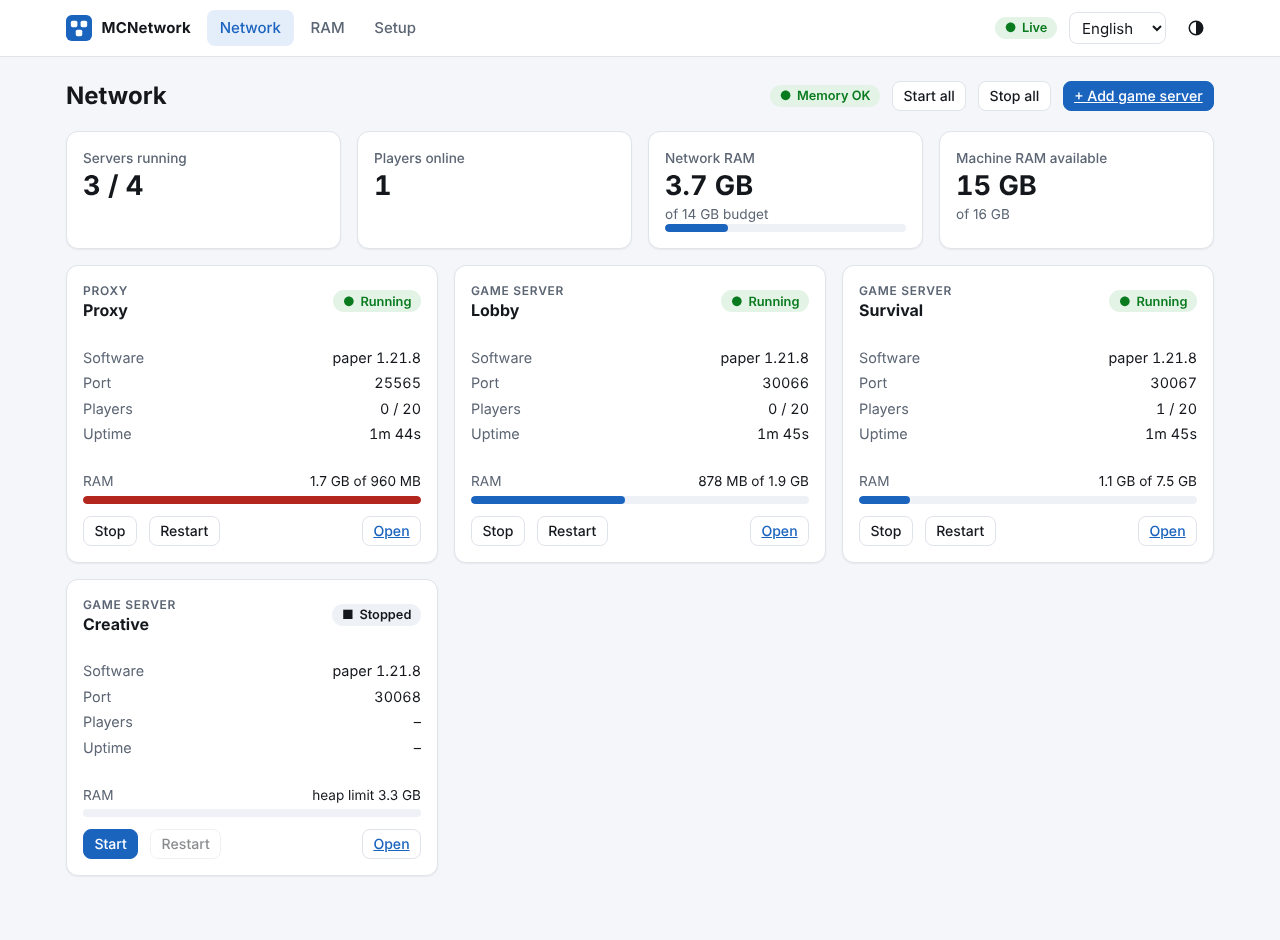
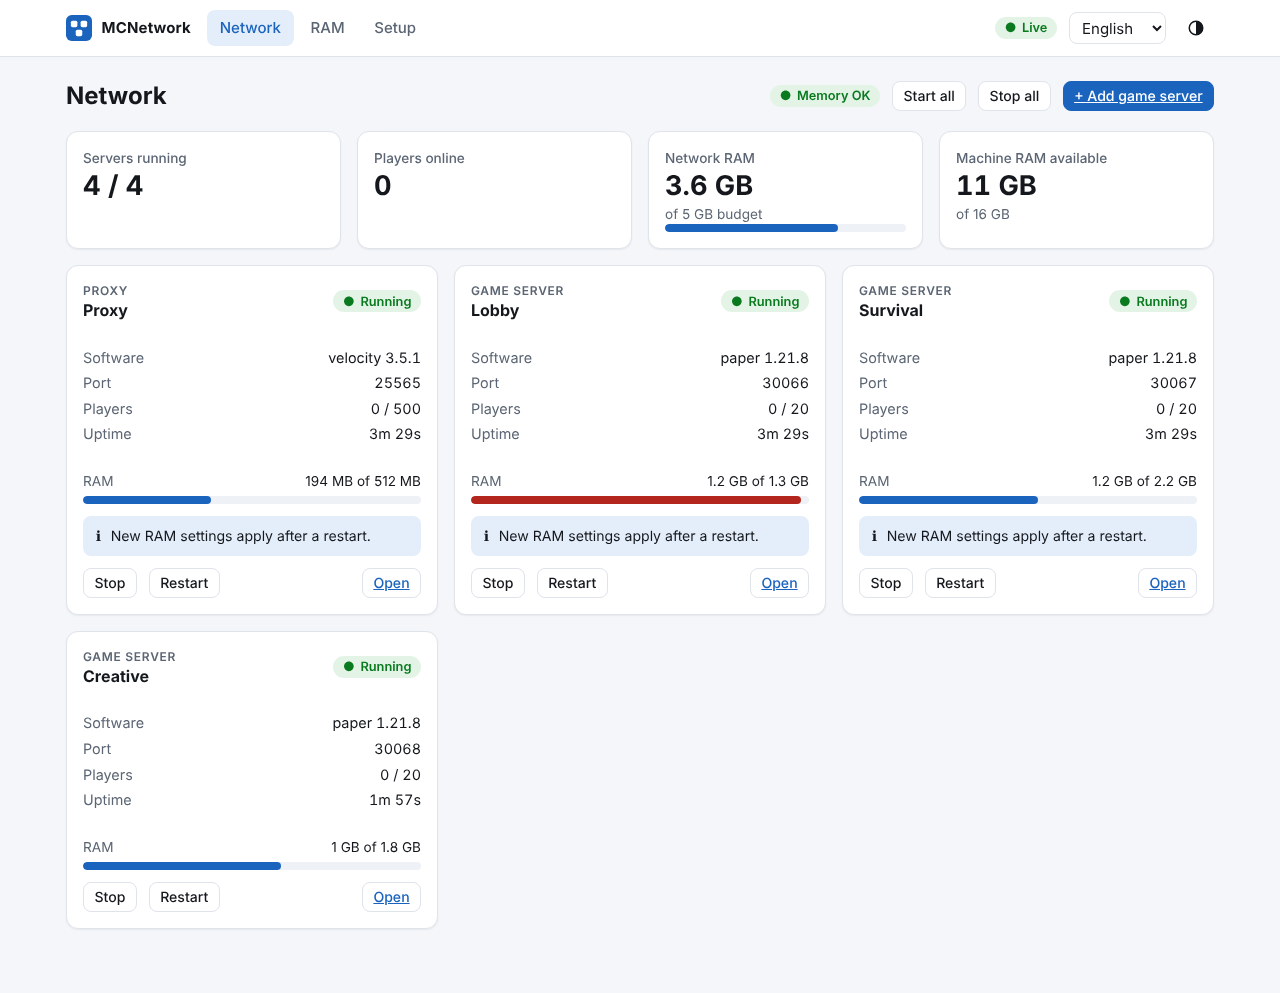
fix: chart gaps, role-aware JVM overhead in the RAM plan; docs for the real-server test
- areas are not drawn across periods without measurements
- plan counts 512 MB overhead for game servers and 256 MB for the proxy (measured), proxy minimum heap 512 MB
- docs/E2E.md, screenshots from a real network

diff --git a/src/ram/planner.ts b/src/ram/planner.ts
@@ -36,22 +36,24 @@ export interface Plan {
 }
 
 export const STEP_MB = 64;
-const OVERHEAD_FIXED_MB = 256;
+/** What a JVM needs besides its heap (metaspace, JIT, threads, native buffers). Measured: Velocity ~200 MB, Paper ~500 MB or more. */
+const OVERHEAD_FIXED_MB: Record<Role, number> = { proxy: 256, backend: 512 };
 const OVERHEAD_RATIO = 0.15;
 
-/** A proxy only forwards packets: it rarely needs more than 1 GB, however big the machine is. */
+/** A proxy only forwards packets: 512 MB-1 GB is plenty (a real Velocity idled at ~200 MB RSS), however big the machine is. */
 const DEFAULTS: Record<Role, { weight: number; minMb: number; maxMb: number }> = {
-  proxy: { weight: 1, minMb: 256, maxMb: 1024 },
+  proxy: { weight: 1, minMb: 512, maxMb: 1024 },
   backend: { weight: 4, minMb: 512, maxMb: Infinity },
 };
 
-/** RAM a JVM occupies for a heap: the heap plus metaspace, threads and native buffers. */
-export const rssForHeap = (heapMb: number): number => heapMb + Math.max(OVERHEAD_FIXED_MB, heapMb * OVERHEAD_RATIO);
+/** RAM a JVM occupies for a heap: the heap plus its own overhead. */
+export const rssForHeap = (heapMb: number, role: Role = 'backend'): number => heapMb + Math.max(OVERHEAD_FIXED_MB[role], heapMb * OVERHEAD_RATIO);
 
 /** Inverse of rssForHeap. */
-export function heapForRss(rssMb: number): number {
-  const small = rssMb - OVERHEAD_FIXED_MB;
-  return small <= OVERHEAD_FIXED_MB / OVERHEAD_RATIO ? small : rssMb / (1 + OVERHEAD_RATIO);
+export function heapForRss(rssMb: number, role: Role = 'backend'): number {
+  const fixed = OVERHEAD_FIXED_MB[role];
+  const small = rssMb - fixed;
+  return small <= fixed / OVERHEAD_RATIO ? small : rssMb / (1 + OVERHEAD_RATIO);
 }
 
 export const autoReserveMb = (totalMb: number): number => Math.max(1024, Math.round(totalMb * 0.12));
@@ -84,9 +86,9 @@ export function planRam(input: PlanInput): Plan {
     const def = DEFAULTS[server.role];
     const minHeap = Math.max(m.minMb ?? def.minMb, 64);
     const pinned = m.pinnedMb;
-    const minRss = rssForHeap(pinned ?? minHeap);
+    const minRss = rssForHeap(pinned ?? minHeap, server.role);
     const maxHeap = m.maxMb ?? def.maxMb;
-    const maxRss = pinned !== undefined ? minRss : Number.isFinite(maxHeap) ? Math.max(minRss, rssForHeap(maxHeap)) : Infinity;
+    const maxRss = pinned !== undefined ? minRss : Number.isFinite(maxHeap) ? Math.max(minRss, rssForHeap(maxHeap, server.role)) : Infinity;
     return { server, weight: m.weight ?? def.weight, minRss, maxRss, rss: minRss, reason: pinned !== undefined ? 'pinned' : 'share', locked: pinned !== undefined };
   });
 
@@ -133,10 +135,10 @@ export function planRam(input: PlanInput): Plan {
     if (s.reason === 'pinned') xmx = m.pinnedMb ?? minHeap;
     else if (s.reason === 'min') xmx = minHeap;
     else if (s.reason === 'max') xmx = Math.max(m.maxMb ?? DEFAULTS[s.server.role].maxMb, minHeap);
-    else xmx = Math.min(Math.max(floorStep(heapForRss(s.rss)), minHeap), m.maxMb ?? DEFAULTS[s.server.role].maxMb);
+    else xmx = Math.min(Math.max(floorStep(heapForRss(s.rss, s.server.role)), minHeap), m.maxMb ?? DEFAULTS[s.server.role].maxMb);
     // Proxies and pinned servers start with their full heap; game servers start smaller and grow.
     const xms = s.server.role === 'proxy' || s.reason === 'pinned' ? xmx : Math.min(xmx, Math.max(256, floorStep(xmx / 4)));
-    return { id: s.server.id, xmxMb: xmx, xmsMb: xms, expectedRssMb: Math.round(rssForHeap(xmx)), reason: s.reason };
+    return { id: s.server.id, xmxMb: xmx, xmsMb: xms, expectedRssMb: Math.round(rssForHeap(xmx, s.server.role)), reason: s.reason };
   });
   const expectedRssMb = allocations.reduce((sum, a) => sum + a.expectedRssMb, 0);
   if (expectedRssMb > budgetMb + 1 && !warnings.length) warnings.push(`The plan needs ${expectedRssMb} MB but only ${Math.round(budgetMb)} MB are available.`);

diff --git a/web/js/charts.js b/web/js/charts.js
@@ -44,13 +44,25 @@ export function stackedAreaChart({ frames, series, budgetMb }) {
     root.append(svg('text', { x: x(time), y: H - 8, 'text-anchor': i === 0 ? 'start' : i === 4 ? 'end' : 'middle' }, fmtTime(time, t1 - t0 < 20 * 60_000)));
   }
 
+  // Without data (the daemon was off) the chart stays empty instead of sloping to zero: frames far apart start a new segment.
+  const gaps = frames.slice(1).map((f, i) => f.t - frames[i].t).sort((a, b) => a - b);
+  const gapMs = Math.max(30_000, 4 * (gaps[Math.floor(gaps.length / 2)] ?? 0));
+  const segments = [];
+  frames.forEach((f, i) => {
+    if (i === 0 || f.t - frames[i - 1].t > gapMs) segments.push([]);
+    segments[segments.length - 1].push(i);
+  });
+
   // stacked areas, bottom series first; a thin surface-colored outline leaves a gap between fills
   const base = frames.map(() => 0);
   series.forEach((s, si) => {
     const top = frames.map((f, i) => base[i] + values[i][si]);
-    const up = frames.map((f, i) => `${x(f.t).toFixed(1)},${y(top[i]).toFixed(1)}`);
-    const down = frames.map((f, i) => `${x(f.t).toFixed(1)},${y(base[i]).toFixed(1)}`).reverse();
-    root.append(svg('path', { class: 'area', d: `M${up.join('L')}L${down.join('L')}Z`, fill: s.color, 'fill-opacity': 0.88 }));
+    for (const seg of segments) {
+      if (seg.length < 2) continue;
+      const up = seg.map((i) => `${x(frames[i].t).toFixed(1)},${y(top[i]).toFixed(1)}`);
+      const down = seg.map((i) => `${x(frames[i].t).toFixed(1)},${y(base[i]).toFixed(1)}`).reverse();
+      root.append(svg('path', { class: 'area', d: `M${up.join('L')}L${down.join('L')}Z`, fill: s.color, 'fill-opacity': 0.88 }));
+    }
     top.forEach((v, i) => (base[i] = v));
   });
 
@@ -72,6 +84,7 @@ export function stackedAreaChart({ frames, series, budgetMb }) {
     let best = 0;
     for (let i = 1; i < frames.length; i++) if (Math.abs(frames[i].t - time) < Math.abs(frames[best].t - time)) best = i;
     const f = frames[best];
+    if (Math.abs(f.t - time) > gapMs / 2) return hide(); // in a gap there is nothing to show
     cross.setAttribute('x1', x(f.t));
     cross.setAttribute('x2', x(f.t));
     cross.style.display = '';

diff --git a/test/planner.test.ts b/test/planner.test.ts
@@ -13,13 +13,17 @@ const get = (plan: Plan, id: string) => {
 };
 
 describe('rssForHeap / heapForRss', () => {
-  it('adds a fixed overhead for small heaps and a percentage for big ones', () => {
-    assert.equal(rssForHeap(512), 768);
-    assert.equal(rssForHeap(4000), 4600);
+  it('adds a fixed overhead for small heaps and a percentage for big ones, more for game servers than for a proxy', () => {
+    assert.equal(rssForHeap(512), 1024); // game server: 512 MB fixed
+    assert.equal(rssForHeap(512, 'proxy'), 768); // proxy: 256 MB fixed
+    assert.equal(rssForHeap(4000), 4600); // 15 % beats the fixed part
+    assert.equal(rssForHeap(4000, 'proxy'), 4600);
   });
 
   it('are inverse to each other', () => {
-    for (const heap of [256, 512, 1700, 1707, 2048, 8000]) assert.ok(Math.abs(heapForRss(rssForHeap(heap)) - heap) < 0.5, `heap ${heap}`);
+    for (const role of ['proxy', 'backend'] as const) {
+      for (const heap of [256, 512, 1700, 3400, 3500, 8000]) assert.ok(Math.abs(heapForRss(rssForHeap(heap, role), role) - heap) < 0.5, `${role} heap ${heap}`);
+    }
   });
 });
 
@@ -86,7 +90,7 @@ describe('planRam', () => {
     const plan = planRam({ totalMb: 2048, reserveMb: 0, servers: [proxy, lobby, survival] });
     assert.equal(plan.warnings.length, 1);
     assert.match(plan.warnings[0], /Not enough RAM/);
-    assert.equal(get(plan, 'proxy').xmxMb, 256);
+    assert.equal(get(plan, 'proxy').xmxMb, 512);
     assert.equal(get(plan, 'survival').xmxMb, 512);
   });
 

diff --git a/web/js/views/overview.js b/web/js/views/overview.js
@@ -36,9 +36,9 @@ function serverCard(view) {
     h('div', {},
       h('div', { class: 'row small', style: 'justify-content:space-between;margin-bottom:4px' },
         h('span', { class: 'muted' }, t('RAM')),
-        h('span', {}, live ? `${fmtMb(rssMb)} ${t('of')} ${fmtMb(rssForHeap(heapMb))}` : `${t('heap limit')} ${fmtMb(heapMb)}`),
+        h('span', {}, live ? `${fmtMb(rssMb)} ${t('of')} ${fmtMb(rssForHeap(heapMb, cfg.role))}` : `${t('heap limit')} ${fmtMb(heapMb)}`),
       ),
-      usageBar(rssMb, rssForHeap(heapMb)),
+      usageBar(rssMb, rssForHeap(heapMb, cfg.role)),
     ),
     view.needsRestart && h('div', { class: 'callout info' }, h('span', { class: 'ico', 'aria-hidden': 'true' }, 'ℹ'), t('New RAM settings apply after a restart.')),
     view.error && !online && h('div', { class: 'callout bad' }, h('span', { class: 'ico', 'aria-hidden': 'true' }, '⚠'), view.error),

diff --git a/web/js/util.js b/web/js/util.js
@@ -76,5 +76,5 @@ export function parseMb(text) {
   return m ? Number(m[1]) * (m[2].toUpperCase() === 'G' ? 1024 : 1) : 0;
 }
 
-/** What a JVM with this heap occupies in RAM (mirrors the daemon's planner): heap + max(256 MB, 15 %). */
-export const rssForHeap = (heapMb) => heapMb + Math.max(256, heapMb * 0.15);
+/** What a JVM with this heap occupies in RAM (mirrors the daemon's planner): heap + max(fixed, 15 %); fixed is 256 MB for a proxy and 512 MB for a game server. */
+export const rssForHeap = (heapMb, role = 'backend') => heapMb + Math.max(role === 'proxy' ? 256 : 512, heapMb * 0.15);

diff --git a/README.md b/README.md
@@ -69,7 +69,7 @@ Every server lives in `data/servers/<id>/`. Removing a server from the network n
 | `ram.totalMb` | RAM MCNetwork may plan with; `0` = detect (container limit or physical RAM) |
 | `ram.reserveMb` | left for the OS; `0` = 12 % of the total, at least 1 GB |
 | `memory.weight` | share of the RAM budget (default: proxy 1, backend 4) |
-| `memory.minMb` / `maxMb` | limits for the heap (defaults: proxy 256-1024, backend from 512) |
+| `memory.minMb` / `maxMb` | limits for the heap (defaults: proxy 512-1024, backend from 512) |
 | `memory.pinnedMb` | fixed heap, ignores the weight |
 | `port` / `entry` | set by the wizard: the server's Minecraft port, and whether players join it first |
 
@@ -83,7 +83,7 @@ the wizard only continues after you tick the confirmation, and only then writes 
 ## How the RAM plan works
 
 1. Budget = total RAM minus the reserve.
-2. A JVM needs more than its heap (metaspace, threads, native buffers), so a heap of `H` is counted as `H + max(256 MB, 15 %)`.
+2. A JVM needs more than its heap (metaspace, JIT, threads, native buffers), so a heap of `H` is counted as `H + max(fixed, 15 %)` with a fixed part of 256 MB for the proxy and 512 MB for game servers (measured with real Velocity and Paper).
 3. Pinned servers get exactly their size; the rest of the budget is shared by weight. A server that hits its minimum or maximum is fixed there and the others share what is left.
 4. Proxies start with their full heap; backends start with a quarter of it (`-Xms`) and grow, so the JVM can give memory back.
 5. If even the minimums do not fit, everyone gets the minimum and the plan carries a warning.
@@ -93,6 +93,10 @@ A running JVM cannot change its heap: new sizes apply at the next start of each 
 ## API and architecture
 
 See [docs/API.md](docs/API.md) for the HTTP API and [docs/ARCHITECTURE.md](docs/ARCHITECTURE.md) for how the pieces fit together and what is planned.
+
+## Tested with real servers
+
+The setup, the proxy connection (modern forwarding), joining through Velocity, switching servers and adding a server to a running network were verified with a real Velocity and real Paper servers. See [docs/E2E.md](docs/E2E.md).
 
 ## Development
 

diff --git a/docs/E2E.md b/docs/E2E.md
@@ -1,0 +1,18 @@
+# Test with a real network
+
+The automated tests use a stand-in for MCLI. Before a release the whole thing is also run against real servers:
+
+1. Start MCNetwork with a fresh data folder, `mcliPath` pointing to a built `mcli.js`, and a small `ram.totalMb` (for example 6144).
+2. `POST /api/setup` with a proxy, two game servers (Paper 1.21.x) and `"acceptEula": true` (this is you accepting the [Minecraft EULA](https://aka.ms/MinecraftEULA)).
+3. Wait for the job to finish (`GET /api/setup`), then check that
+   - all servers are `running` and answer the status ping,
+   - `forwarding.secret` of Velocity and `secret` in each `config/paper-global.yml` are identical,
+   - the Paper log says it uses compression from Velocity (modern forwarding is active).
+4. Join with a bot through the proxy. For the test only, set `online-mode = false` in `velocity.toml` and restart the proxy; then, for example with `mineflayer` (version `1.21.8`, `auth: 'offline'`), connect to the proxy port, type `/server <other server>` and check
+   - the player lands on the first server, then on the other one,
+   - the player's UUID is the same on both servers,
+   - MCNetwork shows the player on the proxy and on the current game server.
+5. Add another game server with `POST /api/setup` (no `proxy`): Velocity must reload by itself and the new server must be reachable with `/server`.
+
+Last run (Velocity 3.5.1, Paper 1.21.8): all of the above passed. It found, and led to fixes for: Velocity's default port (25565), Java 25 for Velocity 4.x,
+the recommended Velocity build, player counting with colored Paper log lines, and the JVM overhead used by the RAM planner.

diff --git a/docs/ARCHITECTURE.md b/docs/ARCHITECTURE.md
@@ -31,7 +31,7 @@ dashboard / TUI / curl
 
 - **Servers write their own default settings.** The setup starts each server once, waits for its settings file, stops it, and patches the real file (not a template), so new Velocity/Paper config versions keep working.
 - **Backends are local only.** Game servers bind to `127.0.0.1` with `online-mode=false`; the proxy authenticates players and forwards them with a shared secret.
-- **The planner is conservative.** It counts heap plus JVM overhead as if the heap were full; a real Velocity with a 1 GB heap used about 200 MB. Real heap data from the plugins will let it plan tighter.
+- **The planner is conservative.** It counts heap plus JVM overhead as if the heap were full; a real Velocity with a 1 GB heap used about 200 MB, while a small Paper used 0.9-1.2 GB. Real heap data from the plugins will let it plan tighter.
 
 ## Planned
 
